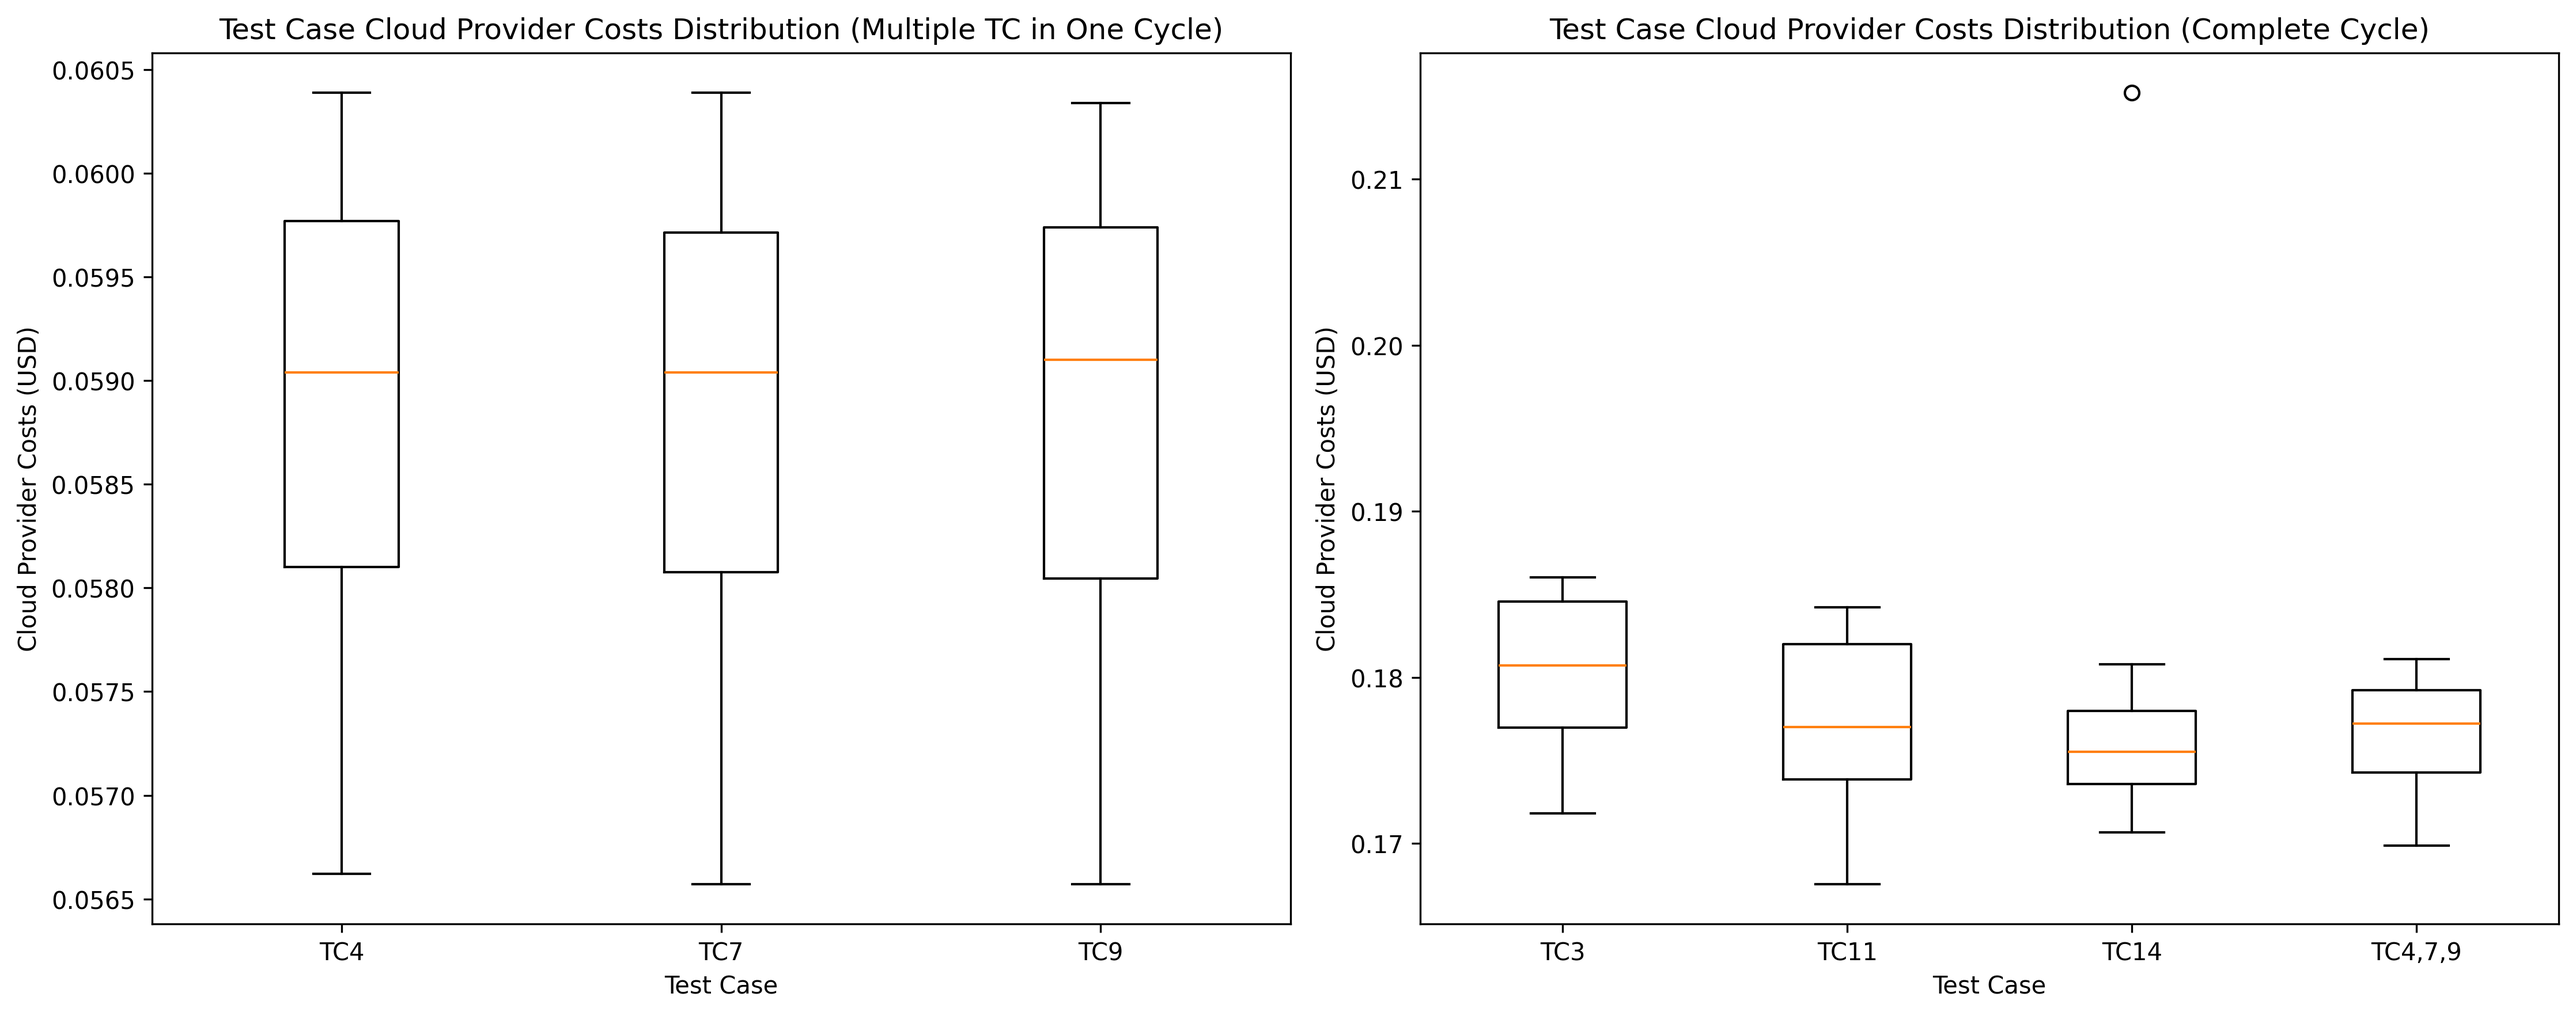
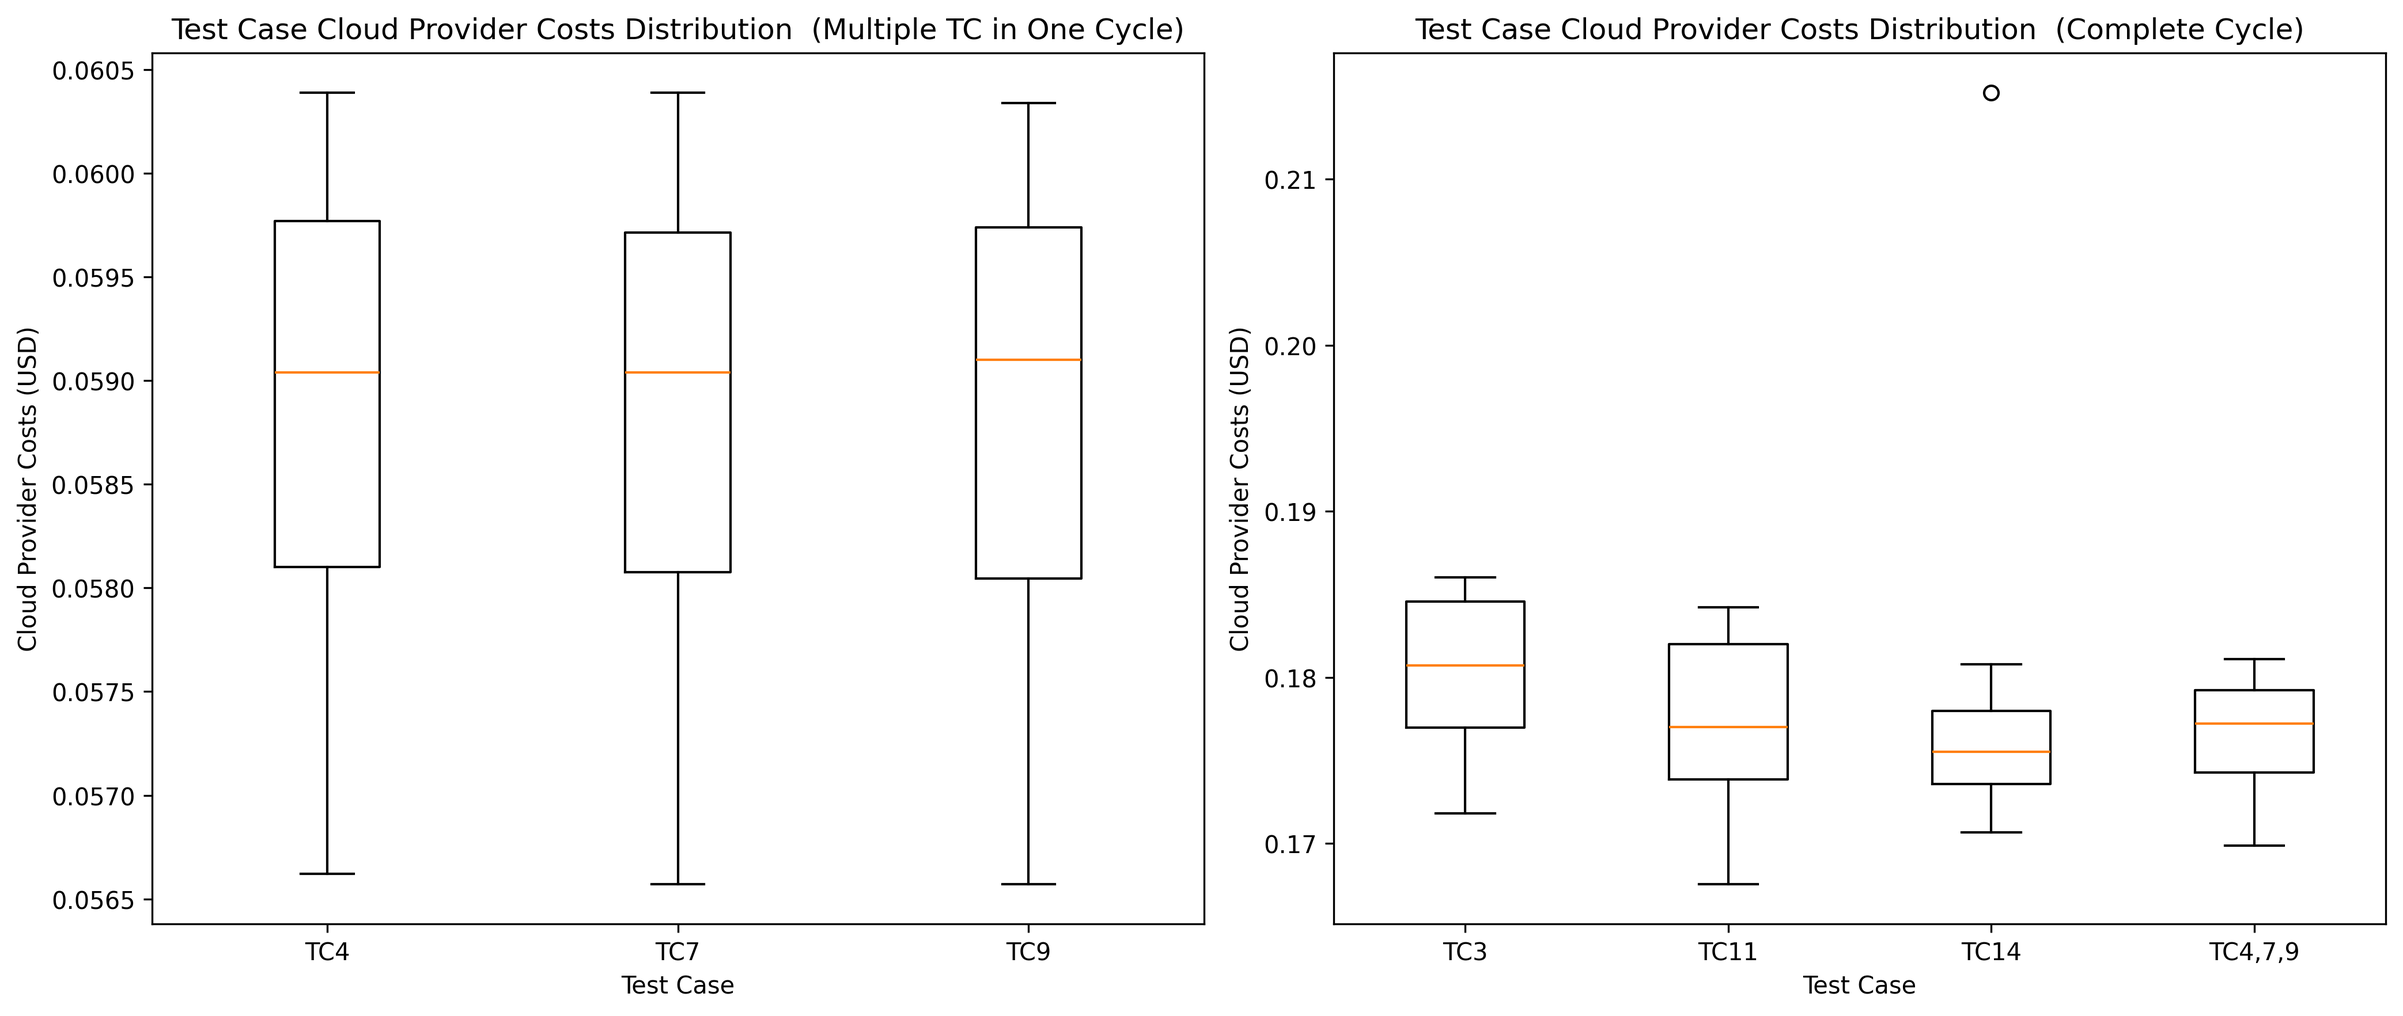
multi plot diagrams

diff --git a/evaluation/scripts/cost_distribution.py b/evaluation/scripts/cost_distribution.py
@@ -41,35 +41,19 @@ def tc_data_processing(data):
     data.sort_values(by=[xkey], inplace=True)
     return data
 
-def generate_box_whisker_plot(data, plot_title, xkey, xlabel, ykey, ylabel, output_path):
-    plt.figure(figsize=(12, 6))
-    # Create a mapping from xkey values to their order in the unique array
-    unique_keys = data[xkey].unique()
-    order_mapping = {key: i for i, key in enumerate(unique_keys)}
-    # Group the data by xkey without sorting
-    grouped_data = data.groupby(xkey, sort=False)
-    # Sort the plot data based on the order_mapping determined by the unique keys
-    plot_data = [group[ykey].values for _, group in sorted(grouped_data, key=lambda x: order_mapping[x[0]])]
-    plt.boxplot(plot_data)
-    plt.ylabel(ylabel)
-    plt.xlabel(xlabel)
-    # Set the x-axis ticks to the unique xkey values in the original order
-    plt.xticks(range(1, len(unique_keys) + 1), unique_keys)   
-    plt.title(plot_title)
-    plt.tight_layout()
-    plt.savefig(output_path, dpi=300, bbox_inches='tight')
-    plt.show()
-
-def generate_dual_box_whisker_plot(data, data_subset_1, data_subset_2, plot_title, xkey, xlabel, ykey, ylabel, output_path):
-    plt.figure(figsize=(15, 6))
-    # First subplot
-    plt.subplot(1, 2, 1)
-    generate_single_box_whisker_plot(data_subset_1, xkey, xlabel, ykey, ylabel)
-    plt.title(plot_title + " (Multiple TC in One Cycle)")
-    # Second subplot
-    plt.subplot(1, 2, 2)
-    generate_single_box_whisker_plot(data_subset_2, xkey, xlabel, ykey, ylabel)
-    plt.title(plot_title + " (Complete Cycle)")
+def generate_box_whisker_plots(title, data_sets, title_postfixes, xkey, xlabel, ykey, ylabel, output_path):
+    num_plots = len(data_sets)
+    # Determine the number of rows and columns for the subplots
+    if num_plots == 2:
+        rows, cols = 1, 2
+    else:
+        rows, cols = (num_plots + 1) // 2, 2  # Adjust for an odd number of plots
+    plt.figure(figsize=(7 * cols, 6 * rows))
+    for i in range(num_plots):
+        plt.subplot(1, num_plots, i + 1)
+        generate_single_box_whisker_plot(data_sets[i], xkey, xlabel, ykey, ylabel)
+        postfix = title_postfixes[i] if i < len(title_postfixes) else ""
+        plt.title(title + " " + postfix)
     plt.tight_layout()
     plt.savefig(output_path, dpi=300, bbox_inches='tight')
     plt.show()
@@ -92,21 +76,10 @@ tc_data_complete = tc_data[~tc_data['test_case'].isin([4, 7, 9])]
 filename = os.path.splitext(os.path.basename(os.path.abspath(__file__)))[0]
 output_path = os.path.join(diagrams_dir, filename + '.png')
 
-# Generate plot, latex table and latex figure boilerplate
-# generate_box_whisker_plot(
-#     data=tc_data,
-#     plot_title=plot_title,
-#     xkey=label_key,
-#     xlabel=xlabel,
-#     ykey=ykey,
-#     ylabel=ylabel,
-#     output_path=output_path
-# )
-generate_dual_box_whisker_plot(
-    data=tc_data,
-    data_subset_1=tc_data_net,
-    data_subset_2=tc_data_complete,
-    plot_title=plot_title,
+generate_box_whisker_plots(
+    title=plot_title,
+    data_sets=[tc_data_net, tc_data_complete],
+    title_postfixes=[" (Multiple TC in One Cycle)", " (Complete Cycle)"],
     xkey=label_key,
     xlabel=xlabel,
     ykey=ykey,

diff --git a/evaluation/scripts/avg_runtime.py b/evaluation/scripts/avg_runtime.py
@@ -154,12 +154,50 @@ def generate_double_bar_plot(data, plot_title, xkey, xlabel, ykey, ylabel, y2key
     plt.savefig(output_path, dpi=300, bbox_inches='tight')
     plt.show()
 
+def generate_bar_plots(title, data_sets, title_postfixes, xkey, xlabels, ykey, ylabel, output_path):
+    num_plots = len(data_sets)
+    bar_width = 0.6  # The maximum width that a bar can have
+
+    # Set a sensible figure width and height to get readable labels
+    fig_width = 12  # Adjust as needed
+    fig_height_per_row = 6  # Height per row of subplots
+
+    # Create the figure with the overall size
+    fig = plt.figure(figsize=(fig_width, fig_height_per_row * 2))  # Two rows of plots
+
+    # Plot the first plot using the full width
+    ax1 = plt.subplot2grid((2, 2), (0, 0), colspan=2)
+    data = data_sets[0]
+    ax1.bar(data[xkey], data[ykey], color='blue', width=bar_width, align='center')
+    ax1.set_xticks(range(len(data[xkey])))
+    ax1.set_xticklabels(data[xkey], rotation=45, ha='right', fontsize=8)
+    ax1.set_ylabel(ylabel)
+    ax1.set_xlabel(xlabels[0])
+    ax1.set_title(title + " " + title_postfixes[0])
+
+    # Plot the second and third plots in the second row, sharing the width
+    for i in range(1, num_plots):
+        ax = plt.subplot2grid((2, 2), (1, i - 1))
+        data = data_sets[i]
+        ax.bar(data[xkey], data[ykey], color='blue', width=bar_width, align='center')
+        ax.set_xticks(range(len(data[xkey])))
+        ax.set_xticklabels(data[xkey], rotation=45, ha='right', fontsize=8)
+        ax.set_ylabel(ylabel if i == 1 else "")  # Only add y-label to the first of the second-row plots
+        ax.set_xlabel(xlabels[i])
+        ax.set_title(title + " " + title_postfixes[i])
+
+    plt.tight_layout()
+    plt.savefig(output_path, dpi=300, bbox_inches='tight')
+    plt.show()
+
 
 # Data Loading, Filtering and Processing
 data = read_csv_to_dataframe(data_path)
 
 dynamic_combined_tc_data = filtering_dynamic_combined_tc(data)
 dynamic_standalone_tc_data = filtering_dynamic_standalone_tc(data)
+static_tc_data = filtering_static_tc(data)
+phases_data = deploy_phases_data_processing(filtering_deploy_destroy_phases(data))
 tc_runtime_data = tc_data_processing(pd.concat([
     filtering_static_tc(data), 
     dynamic_combined_tc_data, 
@@ -259,6 +297,33 @@ for plot_info in plots_info:
         digits=plot_info["digits"]
     )
 
+generate_bar_plots(
+    title="",
+    data_sets=[
+        tc_data_processing(static_tc_data),
+        tc_data_processing(dynamic_combined_tc_data), 
+        pd.concat([
+            tc_data_processing(dynamic_standalone_tc_data),
+            phases_data
+        ])
+    ],
+    title_postfixes=[
+        "Static Test Cases",
+        "Dynamic TC - Net Runtime",
+        "Standalone Dynamic TC and Phases",
+        "Deploy and Destroy Phases"
+    ],    
+    xkey=label_key,
+    xlabels=[
+        "Test Case and Approach",
+        "Test Case and Approach",
+        "Test Case and Approach",
+        "Deployment Phase"
+    ],
+    ykey=runtime_key,
+    ylabel="Average Runtime (Seconds)",
+    output_path=os.path.join(diagrams_dir, filename + '.png')
+)
 
 
 

diff --git a/evaluation/scripts/runtime_distribution.py b/evaluation/scripts/runtime_distribution.py
@@ -129,6 +129,36 @@ def generate_violin_plot(data, plot_title, xlabel, output_path):
     plt.savefig(output_path, dpi=300, bbox_inches='tight')
     plt.show()
 
+def generate_box_whisker_plots(title, data_sets, title_postfixes, xkey, xlabels, ykey, ylabel, output_path):
+    num_plots = len(data_sets)
+    # Determine the number of rows and columns for the subplots
+    if num_plots == 2:
+        rows, cols = 1, 2
+    else:
+        rows, cols = (num_plots + 1) // 2, 2  # Adjust for an odd number of plots
+    plt.figure(figsize=(7 * cols, 6 * rows))    
+    for i in range(num_plots):
+        index = i + 1  # Subplot index starts at 1
+        plt.subplot(rows, cols, index)
+        # Select xlabel from list, using the first entry as default if not enough labels are provided
+        current_xlabel = xlabels[i] if i < len(xlabels) else xlabels[0]
+        generate_single_box_whisker_plot(data_sets[i], xkey, current_xlabel, ykey, ylabel)        
+        postfix = title_postfixes[i] if i < len(title_postfixes) else ""
+        plt.title(title + " " + postfix)    
+    plt.tight_layout()
+    plt.savefig(output_path, dpi=300, bbox_inches='tight')
+    plt.show()
+
+def generate_single_box_whisker_plot(data, xkey, xlabel, ykey, ylabel):
+    unique_keys = data[xkey].unique()
+    order_mapping = {key: i for i, key in enumerate(unique_keys)}
+    grouped_data = data.groupby(xkey, sort=False)
+    plot_data = [group[ykey].values for _, group in sorted(grouped_data, key=lambda x: order_mapping[x[0]])]
+    plt.boxplot(plot_data)
+    plt.ylabel(ylabel)
+    plt.xlabel(xlabel)
+    plt.xticks(range(1, len(unique_keys) + 1), unique_keys, rotation=45)
+
 def create_latex_for_type(plots_info, type_key, plot_title, filename):
     combined_data = pd.DataFrame()
 
@@ -220,6 +250,32 @@ for plot_info in plots_info:
         plot_info["violin_xlabel"],
         os.path.join(diagrams_dir, plot_info["label_prefix"] + filename + '_violin.png')
     )
+
+generate_box_whisker_plots(
+    title="Runtime Distribution",
+    data_sets=[
+        static_stages_data,
+        static_tc_data, 
+        dynamic_standalone_tc_and_phases_data,
+        dynamic_combined_tc_data
+    ],
+    title_postfixes=[
+        " Static Stages",
+        " Static Test Cases",
+        " Dynamic Standalone TC",
+        " Dynamic Combined TC"
+    ],    
+    xkey=legend_key,
+    xlabels=[
+        "Test Tool and Approach",
+        "Test Case and Approach",
+        "Test Case and Approach",
+        "Test Case and Approach"
+    ],
+    ykey=ykey,
+    ylabel=ylabel,
+    output_path=os.path.join(diagrams_dir, filename + '.png')
+)
 
 # Create LaTeX tables for each type
 create_latex_for_type(plots_info, "tc", plot_title_tc, filename)
